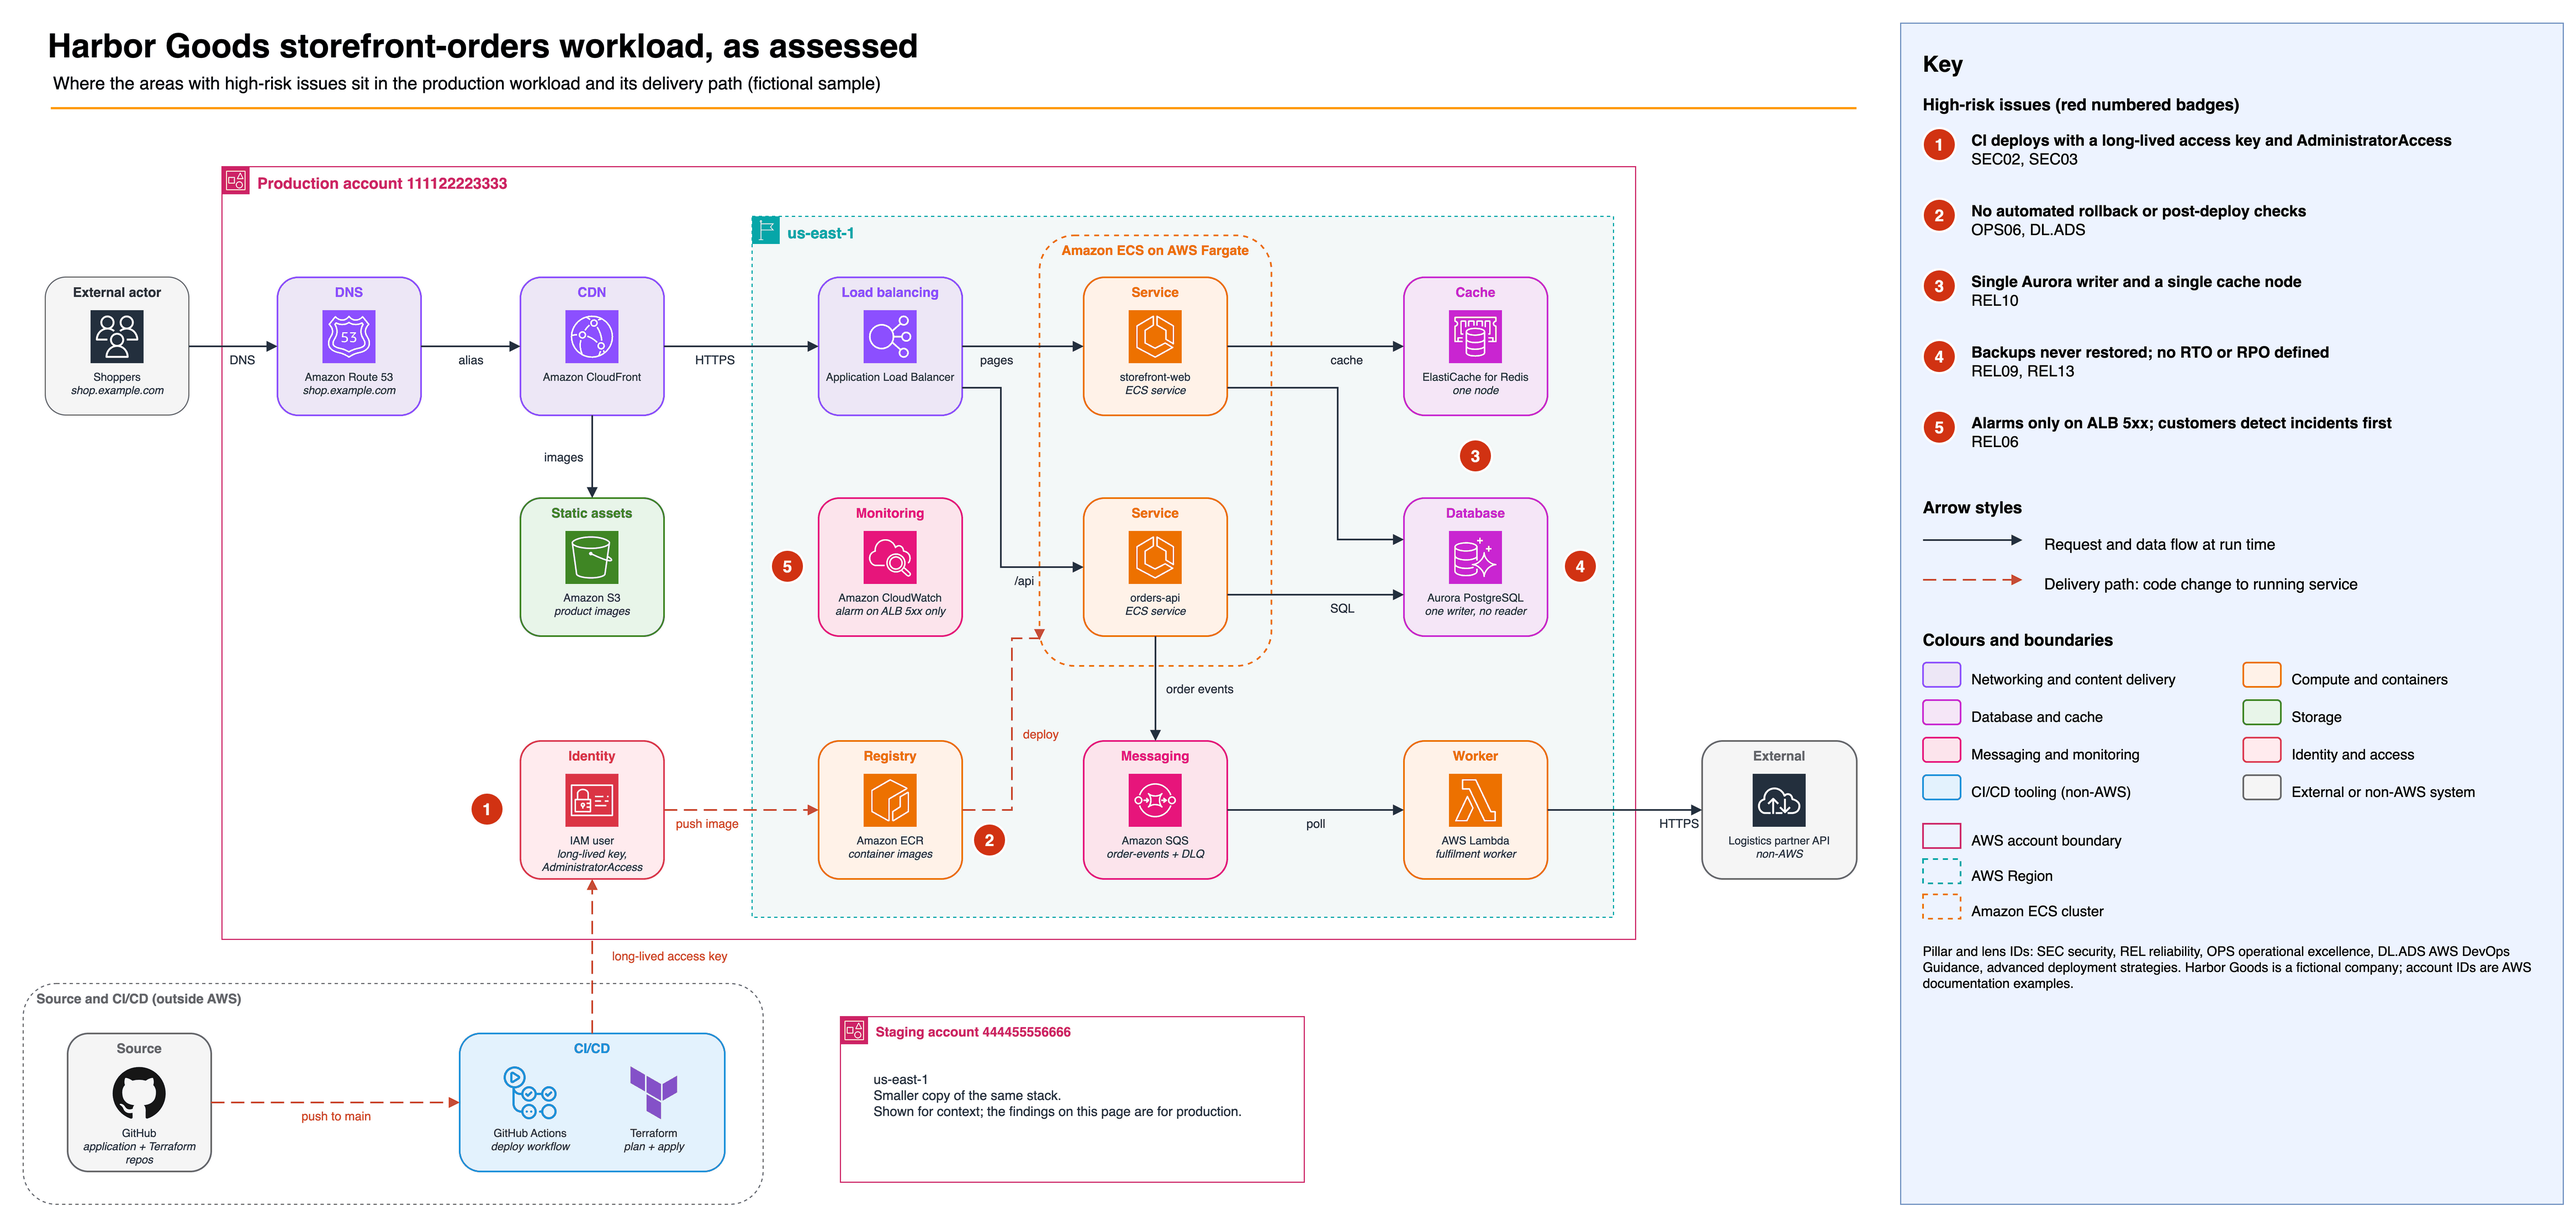
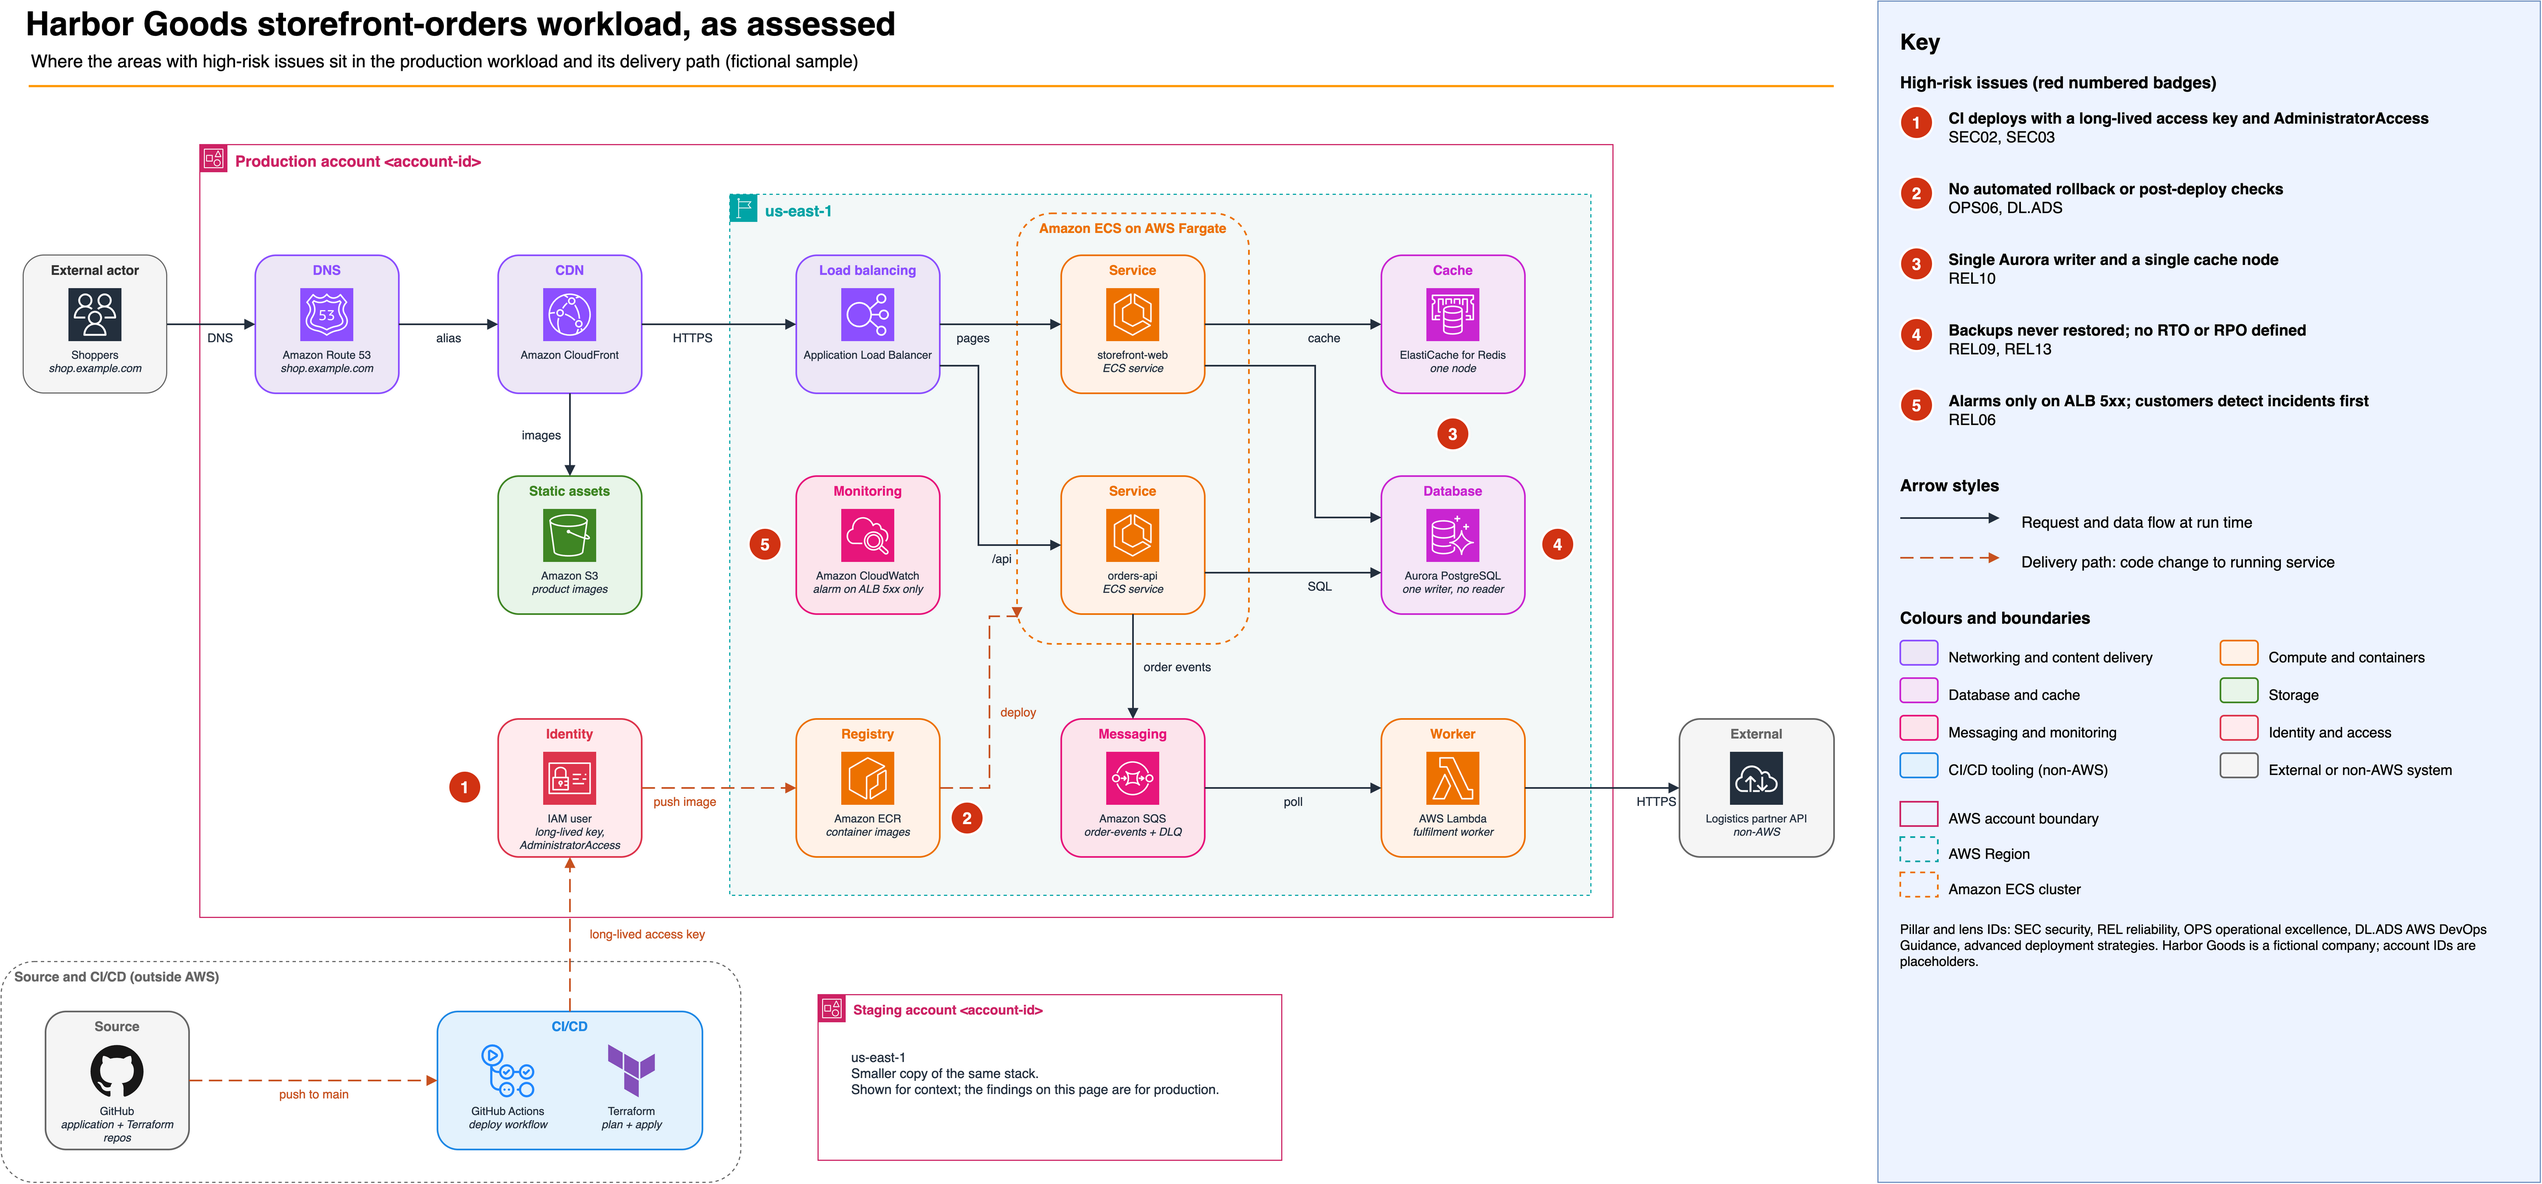
fix: neutral access wording and placeholder account IDs in the assessment and report

diff --git a/tests/test_report.py b/tests/test_report.py
@@ -21,8 +21,6 @@ from wa_assess.__main__ import main, outputs
 from wa_assess.model import load
 from wa_assess.render import Renderer
 
-ALLOWED_ACCOUNT_IDS = {"111122223333", "444455556666", "123456789012"}
-
 
 def table_after(text: str, header_start: str) -> list[list[str]]:
     """Rows of the first Markdown table whose header starts with `header_start`."""
@@ -131,7 +129,7 @@ def test_report_has_no_unfilled_placeholders_and_cites_known_evidence(repo_root,
     assert set(re.findall(r"EV-\d+", report)) <= known
 
 
-def test_only_documentation_example_account_ids_appear(repo_root):
+def test_no_account_ids_appear(repo_root):
     # Only files git tracks: gitignored local files (tool caches, live-test output) are never published.
     # /usr/bin/git exists on macOS and the Ubuntu CI runner; an absolute literal keeps ruff's S603/S607 satisfied.
     suffixes = {".md", ".yaml", ".yml", ".csv", ".json", ".sh", ".py", ".toml", ".drawio", ".svg", ".ini", ".cfg"}
@@ -143,7 +141,7 @@ def test_only_documentation_example_account_ids_appear(repo_root):
         if path.suffix not in suffixes or not path.is_file():
             continue
         found = set(re.findall(r"(?<!\d)\d{12}(?!\d)", path.read_text(encoding="utf-8", errors="ignore")))
-        assert found <= ALLOWED_ACCOUNT_IDS, f"{name}: {found - ALLOWED_ACCOUNT_IDS}"
+        assert not found, f"{name}: {found}"
 
 
 def test_a_malformed_generated_marker_is_refused(repo_root, report):

diff --git a/report/REPORT.md b/report/REPORT.md
@@ -1,14 +1,14 @@
 # Harbor Goods: AWS Well-Architected and DevOps assessment
 
 > **Fictional sample.** Harbor Goods and all data here are fictional. Each repository in this portfolio is a
-> separate engagement with Harbor Goods, a fictional mid-size retailer. Account IDs are AWS documentation examples.
+> separate engagement with Harbor Goods, a fictional mid-size retailer. Account IDs are shown as placeholders.
 > Every finding and figure in this report comes from the synthetic data in `data/synthetic/`.
 
 | Item | Detail |
 | --- | --- |
 | Client | Harbor Goods (fictional mid-size retailer) |
 | Workload | `storefront-orders`: storefront, order API and fulfilment worker |
-| Accounts | Production `111122223333`, staging `444455556666`, shared tooling `123456789012` (AWS documentation example IDs) |
+| Accounts | Production `<account-id>`, staging `<account-id>`, shared tooling `<account-id>` (placeholders) |
 | Region | `us-east-1` |
 | Lenses | AWS Well-Architected Framework (six pillars) and the DevOps lens (AWS Well-Architected DevOps Guidance) |
 | Access used | Read-only for infrastructure inspection; Tool record kept by the client |
@@ -280,7 +280,7 @@ variable, and the team rotated it by hand after it expired (INC-105).
 Recommendation: Move the partner token to Secrets Manager, inject it through the task definition `secrets` field, and
 set a rotation reminder or automatic rotation.
 
-#### SEC03-BP02 Grant least privilege access
+#### SEC03-BP02 Grant only the access each role needs
 
 Status: Not met. Risk: High. Effort: M. Owner: Platform lead. Backlog: HG-06. Evidence: EV-05, EV-08.
 
@@ -753,7 +753,7 @@ in [`evidence/backlog.csv`](../evidence/backlog.csv) for import into a tracker, 
 | 3 | HG-03 | REL09-BP04 | Perform periodic recovery of the data to verify backup integrity and processes | High | S | Platform lead | 30 |
 | 4 | HG-04 | REL13-BP01 | Define recovery objectives for downtime and data loss | High | S | Head of engineering | 30 |
 | 5 | HG-05 | OPS06-BP04 | Automate testing and rollback | High | M | Platform lead | 30 |
-| 6 | HG-06 | SEC03-BP02 | Grant least privilege access | High | M | Platform lead | 30 |
+| 6 | HG-06 | SEC03-BP02 | Grant only the access each role needs | High | M | Platform lead | 30 |
 | 7 | HG-07 | REL06-BP01 | Monitor all components for the workload (Generation) | High | M | Platform lead | 30 |
 | 8 | HG-08 | REL10-BP01 | Deploy the workload to multiple locations | High | M | Platform lead | 30 |
 | 9 | HG-09 | DL.ADS.2 | Implement automatic rollbacks for failed deployments | High | M | Platform lead | 30 |
@@ -816,7 +816,7 @@ depends on.
 - HG-03 Perform periodic recovery of the data to verify backup integrity and processes (REL09-BP04, High, S), Platform
   lead.
 - HG-04 Define recovery objectives for downtime and data loss (REL13-BP01, High, S), Head of engineering.
-- HG-06 Grant least privilege access (SEC03-BP02, High, M), Platform lead. After HG-02.
+- HG-06 Grant only the access each role needs (SEC03-BP02, High, M), Platform lead. After HG-02.
 - HG-07 Monitor all components for the workload (Generation) (REL06-BP01, High, M), Platform lead.
 - HG-08 Deploy the workload to multiple locations (REL10-BP01, High, M), Platform lead.
 - HG-10 Identify key performance indicators (OPS04-BP01, Medium, S), Head of engineering. Moved forward because later

diff --git a/evidence/backlog.md b/evidence/backlog.md
@@ -9,7 +9,7 @@ Generated by `make evidence` from `data/synthetic/`. Fictional sample; do not ed
 | 3 | HG-03 | REL09-BP04 | Perform periodic recovery of the data to verify backup integrity and processes | High | S | Platform lead | 30 | - | Restore the latest snapshot into the staging account every quarter, time it, check row counts, and record the result next to the recovery runbook. |
 | 4 | HG-04 | REL13-BP01 | Define recovery objectives for downtime and data loss | High | S | Head of engineering | 30 | - | Agree an RTO and RPO for checkout and order history with the business owner, and record them in the workload's operations document. |
 | 5 | HG-05 | OPS06-BP04 | Automate testing and rollback | High | M | Platform lead | 30 | HG-10 | Enable the ECS deployment circuit breaker with rollback, and add a post-deploy smoke test and a CloudWatch alarm on the checkout KPI that stops and reverts the deployment. |
-| 6 | HG-06 | SEC03-BP02 | Grant least privilege access | High | M | Platform lead | 30 | HG-02 | Give the new deploy role only the ECS, ECR and Terraform state permissions it uses, move people to IAM Identity Center permission sets, and enforce MFA. |
+| 6 | HG-06 | SEC03-BP02 | Grant only the access each role needs | High | M | Platform lead | 30 | HG-02 | Give the new deploy role only the ECS, ECR and Terraform state permissions it uses, move people to IAM Identity Center permission sets, and enforce MFA. |
 | 7 | HG-07 | REL06-BP01 | Monitor all components for the workload (Generation) | High | M | Platform lead | 30 | - | Add alarms for the dead-letter queue depth, Aurora CPU and connections, Lambda errors and throttles, and a CloudWatch Synthetics canary on the checkout path. |
 | 8 | HG-08 | REL10-BP01 | Deploy the workload to multiple locations | High | M | Platform lead | 30 | - | Add an Aurora reader in a second Availability Zone so failover takes about a minute, and enable Multi-AZ with automatic failover on ElastiCache. |
 | 9 | HG-09 | DL.ADS.2 | Implement automatic rollbacks for failed deployments | High | M | Platform lead | 30 | HG-05 | Use the circuit breaker and alarm-based rollback from OPS06-BP04 for every service, including the Lambda fulfilment worker through CodeDeploy traffic shifting with alarms. |

diff --git a/README.md b/README.md
@@ -10,7 +10,7 @@ risk-rated backlog, a 30/60/90-day roadmap and a client report, all generated fr
 ![DevOps and Well-Architected assessment](docs/assets/cover.png)
 
 > **Fictional sample.** Harbor Goods and all data here are fictional. Each repository in this portfolio is a
-> separate engagement with Harbor Goods, a fictional mid-size retailer. Account IDs are AWS documentation examples.
+> separate engagement with Harbor Goods, a fictional mid-size retailer. Account IDs are shown as placeholders.
 
 ## Executive summary
 
@@ -166,7 +166,7 @@ Architecture decision records follow the *Fundamentals of Software Architecture*
 | actionlint, zizmor | CI (shared `lint-actions`) and pre-commit | Workflows keep narrow token access and pinned actions |
 | gitleaks, detect-secrets | CI (shared `secrets`) and pre-commit | No credentials in a public repository |
 | Semgrep, Trivy, Checkov | CI (shared `security`) | Code and configuration scanning |
-| Account ID test | `tests/test_report.py` | Only AWS documentation example account IDs may appear |
+| Account ID test | `tests/test_report.py` | No 12-digit account ID appears; data uses `YOUR_AWS_ACCOUNT_ID` |
 
 Workflows start from `permissions: {}`, pin actions to full commit SHAs, and never receive cloud credentials.
 
@@ -187,7 +187,7 @@ Workflows start from `permissions: {}`, pin actions to full commit SHAs, and nev
 Part of the [AWS DevOps portfolio](https://github.com/gamaware/aws-devops-portfolio); it backs the "DevOps and
 Well-Architected assessment" service:
 [DevOps and Well-Architected assessment on Upwork](https://www.upwork.com/freelancers/~014b3520cf9e140103). The
-method is the one Alex uses in audits for ITESO and freelance clients in Guadalajara. Contribution, conduct and
+method is the same one used in client audits. Contribution, conduct and
 support guidelines come from [gamaware/.github](https://github.com/gamaware/.github); see also
 [SECURITY.md](SECURITY.md) and [CHANGELOG.md](CHANGELOG.md).
 

diff --git a/.github/copilot-instructions.md b/.github/copilot-instructions.md
@@ -3,12 +3,13 @@
 This repository is a fictional sample deliverable: an AWS Well-Architected and DevOps assessment for the fictional
 retailer Harbor Goods. When reviewing pull requests:
 
-- Check that best-practice IDs and titles in `data/synthetic/` match the AWS Well-Architected Framework or the AWS
-  Well-Architected DevOps Guidance exactly.
+- Check that best-practice IDs in `data/synthetic/` match the AWS Well-Architected Framework or the AWS
+  Well-Architected DevOps Guidance exactly; titles follow the AWS wording, with access titles phrased in plain
+  access terms.
 - Check that any change to `data/synthetic/` or `scripts/` comes with regenerated `evidence/` and report tables
   (`make evidence`), and that `make verify` would still pass.
-- Flag any real AWS account ID, ARN, IP address, email address or organization name. The repository allows only AWS
-  documentation example IDs and `example.com`.
+- Flag any real AWS account ID, ARN, IP address, email address or organization name. The repository allows no 12-digit
+  account IDs (data uses `YOUR_AWS_ACCOUNT_ID`) and only `example.com`.
 - Flag suppressed lint rules; fix violations instead of suppressing them.
 - Workflows: `permissions: {}` at the top, SHA-pinned actions, no `pull_request_target`, no cloud credentials.
 - Shell scripts need a shebang, executable permission, and must pass shellcheck and shellharden.

diff --git a/docs/methodology.md b/docs/methodology.md
@@ -16,8 +16,9 @@ this repository reproduces it. The client, Harbor Goods, is fictional.
   walks through every capability that applies.
 - **Best-practice IDs.** Framework IDs follow the `OPS05-BP01` pattern (pillar, question, best practice). DevOps
   Guidance IDs follow the `[DL.CI.1]` pattern (saga, capability, best practice); the data stores them without
-  brackets. The titles match the current AWS documentation word for word: `make test-live` checks the framework
-  titles against the AWS Well-Architected Tool, and review checks the DevOps Guidance titles.
+  brackets. The titles match the current AWS documentation word for word, except SEC03-BP02, which is phrased in
+  plain access terms. `make test-live` checks the framework titles against the AWS Well-Architected Tool and reports
+  SEC03-BP02 as unmatched; review checks the DevOps Guidance titles.
 
 ## How an engagement runs
 

diff --git a/evidence/roadmap.md b/evidence/roadmap.md
@@ -9,7 +9,7 @@ Generated by `make evidence` from `data/synthetic/`. Fictional sample; do not ed
 - HG-03 Perform periodic recovery of the data to verify backup integrity and processes (REL09-BP04, High, S), Platform
   lead.
 - HG-04 Define recovery objectives for downtime and data loss (REL13-BP01, High, S), Head of engineering.
-- HG-06 Grant least privilege access (SEC03-BP02, High, M), Platform lead. After HG-02.
+- HG-06 Grant only the access each role needs (SEC03-BP02, High, M), Platform lead. After HG-02.
 - HG-07 Monitor all components for the workload (Generation) (REL06-BP01, High, M), Platform lead.
 - HG-08 Deploy the workload to multiple locations (REL10-BP01, High, M), Platform lead.
 - HG-10 Identify key performance indicators (OPS04-BP01, Medium, S), Head of engineering. Moved forward because later

diff --git a/CHANGELOG.md b/CHANGELOG.md
@@ -14,3 +14,8 @@ The assessment is a sample deliverable, so each release is a numbered report rev
 - `report/REPORT.md` with generated tables, and `report/REPORT.pdf` rendered from it.
 - Tests that recompute the report numbers from the data, plus `make verify` and `make test-live`.
 - Assessment method, ADRs, diagrams, the social preview and CI calling the shared workflows pinned to a commit SHA.
+
+### Changed
+
+- Plain access wording for SEC03-BP02, account IDs replaced by placeholders, and no personal byline in the
+  repository or the PDF.
